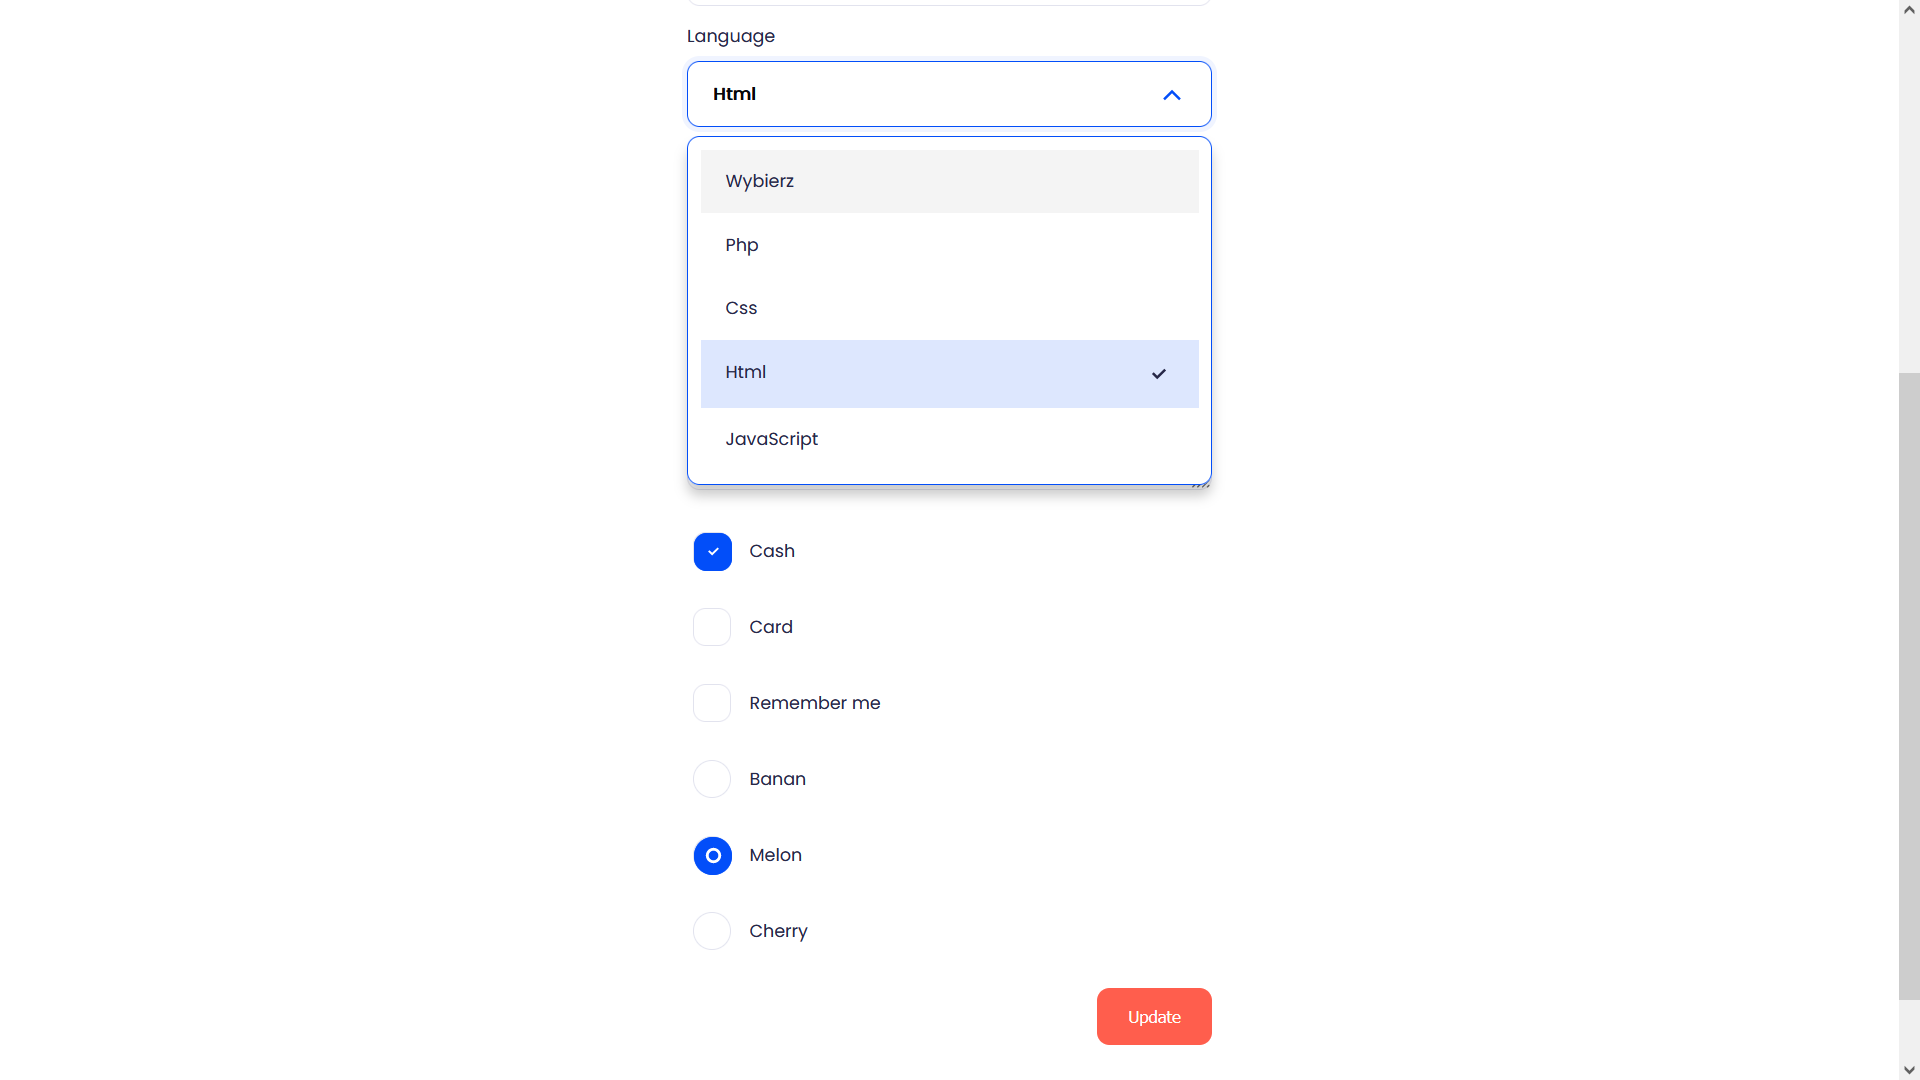
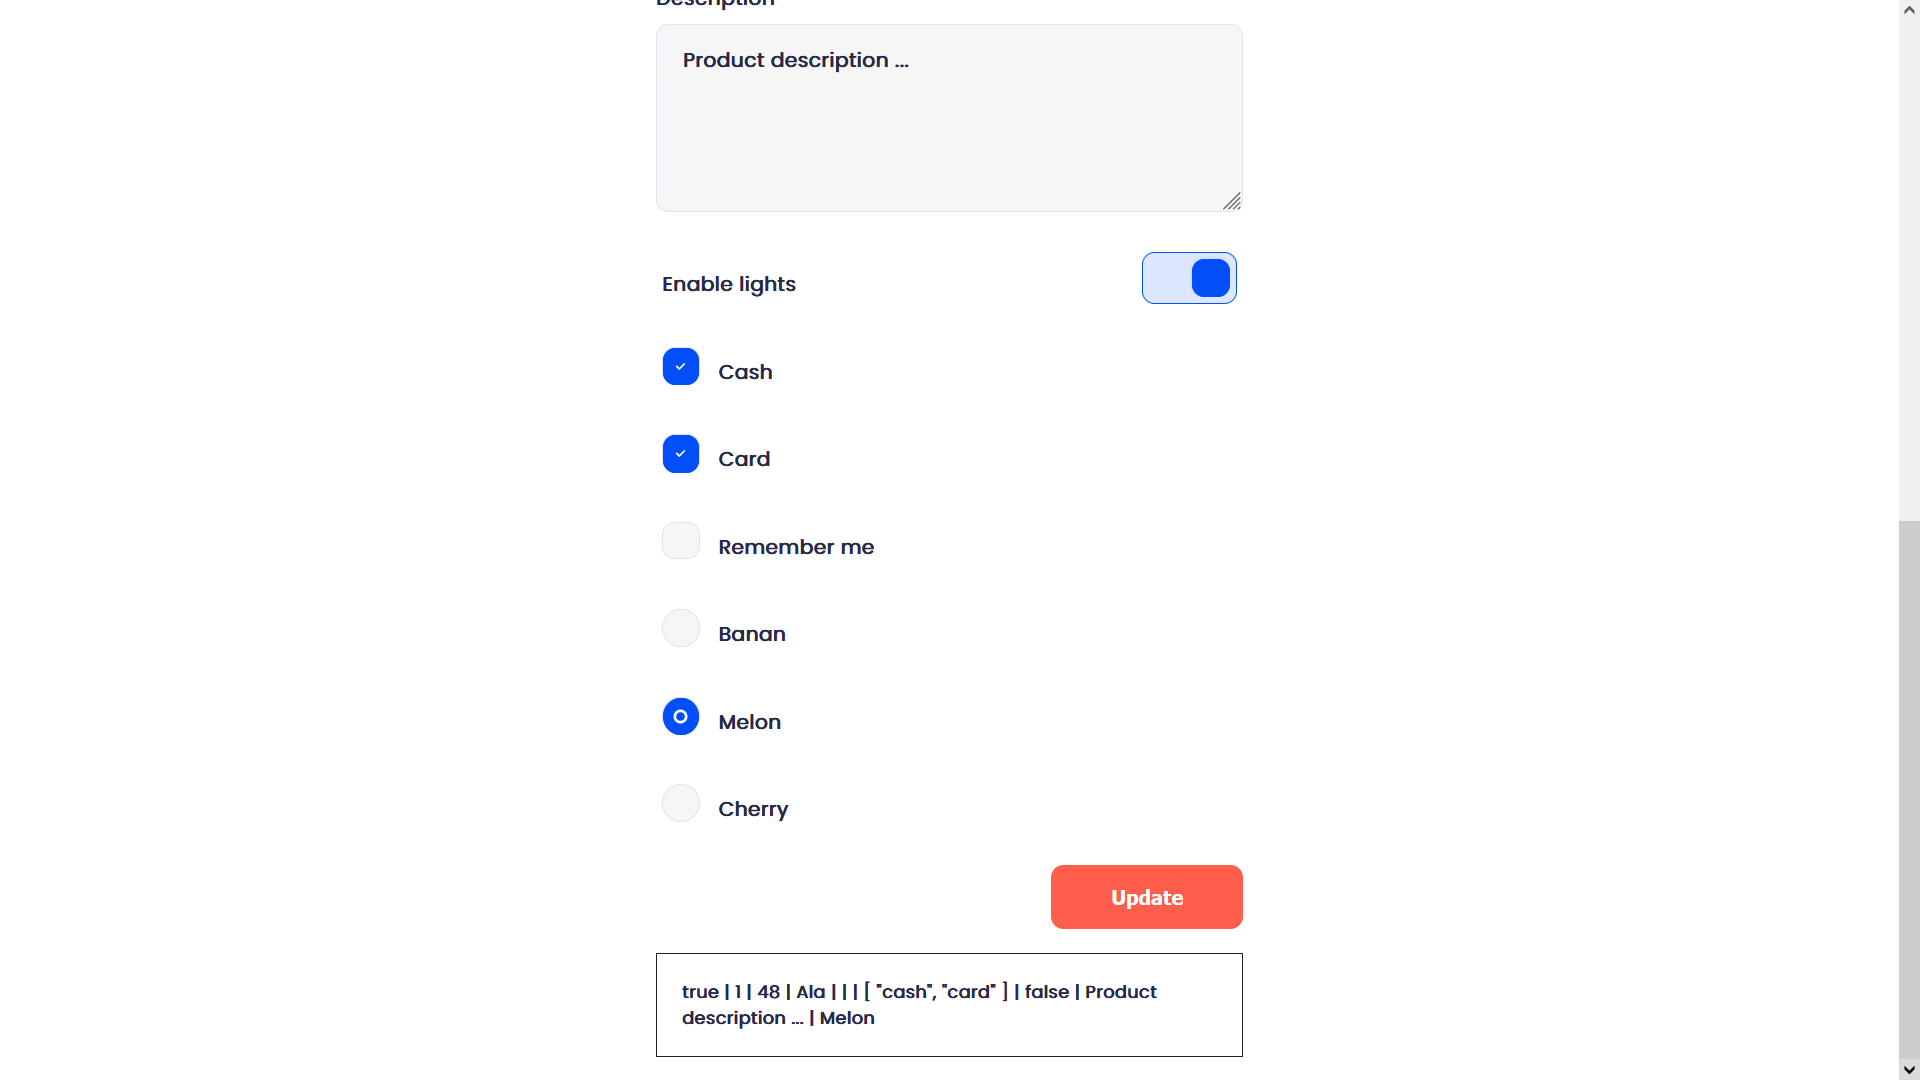
Update

diff --git a/app/resources/js/components/input/css/input.css b/app/resources/js/components/input/css/input.css
@@ -36,7 +36,6 @@ textarea {
 	border-radius: var(--wow-border-radius);
 	border: 1px solid var(--wow-border);
 	background: var(--wow-input-bg);
-	font-family: var(--wow-font-family);
 }
 
 input:hover,
@@ -314,7 +313,8 @@ option {
 	align-items: center;
 }
 .checkbox-line label {
-	margin-top: 10px;
+	margin-top: 0px;
+	margin-bottom: 0px;
 }
 .checkbox-line .checkbox {
 	position: absolute;
@@ -362,17 +362,17 @@ option {
 /* Checkbox onoff */
 
 .checkbox-checkmark-onoff {
-	min-height: 45px;
-	min-width: 80px;
+	min-height: 40px;
+	min-width: 70px;
 	right: 5px;
 }
 
 .checkmark-onoff {
 	float: left;
 	box-sizing: border-box;
-	height: 42px;
-	width: 92px;
-	padding: 5px;
+	height: 35px;
+	width: 70px;
+	padding: 4px;
 	margin-left: 15px;
 	background: var(--wow-input-bg);
 	border: 1px solid var(--wow-border);
@@ -383,8 +383,8 @@ option {
 
 .checkmark-onoff .dot {
 	float: left;
-	min-width: 30px;
-	min-height: 30px;
+	min-width: 26px;
+	min-height: 26px;
 	background: var(--wow-bg);
 	border-radius: var(--wow-border-radius);
 	border: 1px solid var(--wow-border);
@@ -398,7 +398,7 @@ option {
 }
 
 .checkmark-onoff-checked .dot {
-	float: right;
+	margin-left: 25px;
 	background: var(--wow-accent);
 	border: 1px solid var(--wow-accent);
 	transform: rotate(180deg);

diff --git a/app/resources/js/components/input/CheckboxOnOff.vue b/app/resources/js/components/input/CheckboxOnOff.vue
@@ -39,15 +39,8 @@ const checked = computed(() => {
 
 <!--
 
-  // Multiple Array with strings values
-  let money = ref(['card','cash']) // Default selected in array
+  let lights = ref(true)
 
-  <Checkbox label="Cash" value="cash" v-model="money" name="pay_cash" />
-	<Checkbox label="Card" value="card" v-model="money" name="pay_card" />
-
-  // Single (true|false)
-  let remember_me = ref(true)
-
-  <Checkbox label="Remember me 1" value="1" v-model="remember_me" name="remember_me" />
+  <CheckboxOnOff label="Enable lights" value="1" v-model="lights" name="lights" />
 
 -->

diff --git a/app/resources/js/components/input/css/input-root.css b/app/resources/js/components/input/css/input-root.css
@@ -1,6 +1,5 @@
 :root {
 	color-scheme: light;
-	--wow-font-family: var(--font-family);
 	--wow-font-size: 18px;
 	--wow-bg: #fff;
 	--wow-input-bg: #f6f6f6;
